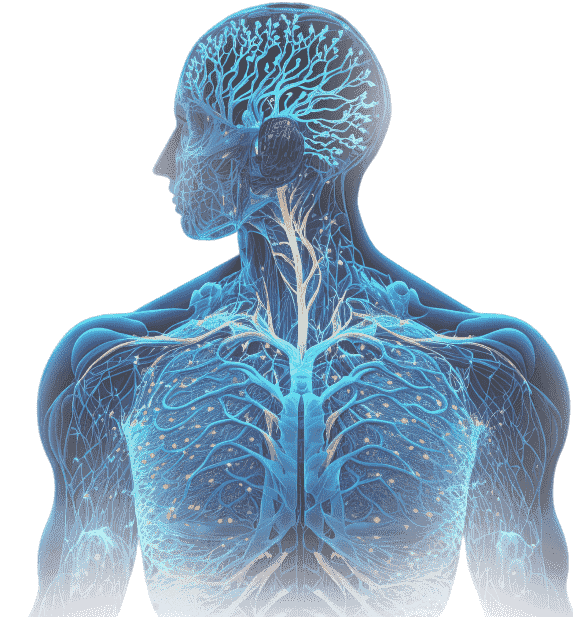
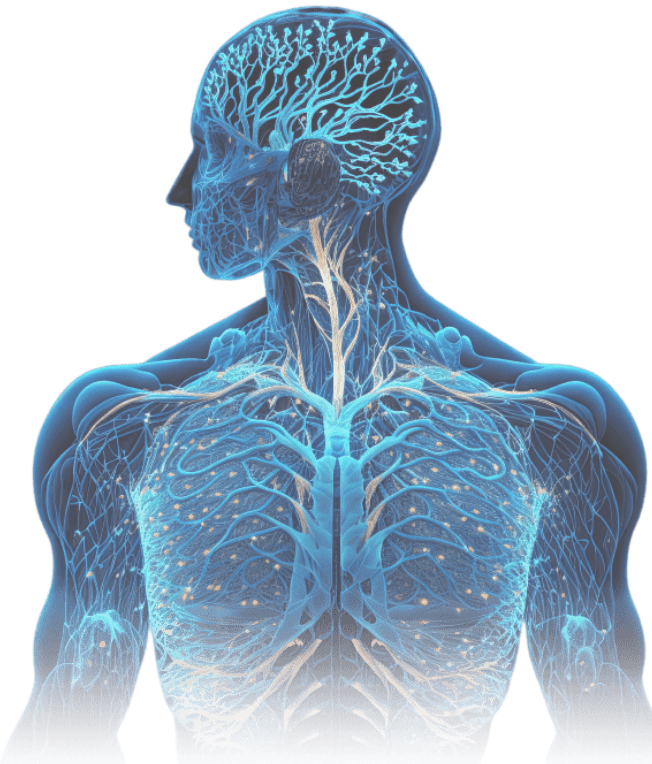
q6

diff --git a/src/sass/components/_banner.scss b/src/sass/components/_banner.scss
@@ -21,7 +21,6 @@
 }
 
 .bunner-btn-border1 {
-  // position: relative;
   margin-top: 20px;
   width: 171px;
   height: 35px;
@@ -74,25 +73,10 @@
 
 .banner-human-image {
   margin: 50px auto;
-  width: 320px;
-  height: 348px;
+  width: 310px;
+  // height: 348px;
   position: relative;
   z-index: 1;
-}
-
-.banner-human-image::after {
-  content: '';
-  position: absolute;
-  z-index: 2;
-  left: 0;
-  bottom: -2px;
-  width: 100%;
-  height: 36%; /* Выберите нужную высоту для прозрачной области */
-  background-image: linear-gradient(
-    180deg,
-    rgba(255, 255, 255, 0) 7%,
-    rgb(8, 44, 66) 97%
-  );
 }
 
 // TODO Блюр (проблема с отображением на iphone 8)

diff --git a/src/sass/components/_header.scss b/src/sass/components/_header.scss
@@ -210,7 +210,7 @@
   display: flex;
   justify-content: center;
   gap: 20px;
-  margin: 70px 0px 68px 0px;
+  margin: 70px 0px 44px 0px;
 
   &__link {
     display: flex;
@@ -234,6 +234,7 @@
 
 .human-image {
   position: relative;
+  z-index: 2;
   margin: 0 auto;
   max-width: 280px;
   height: 300px;
